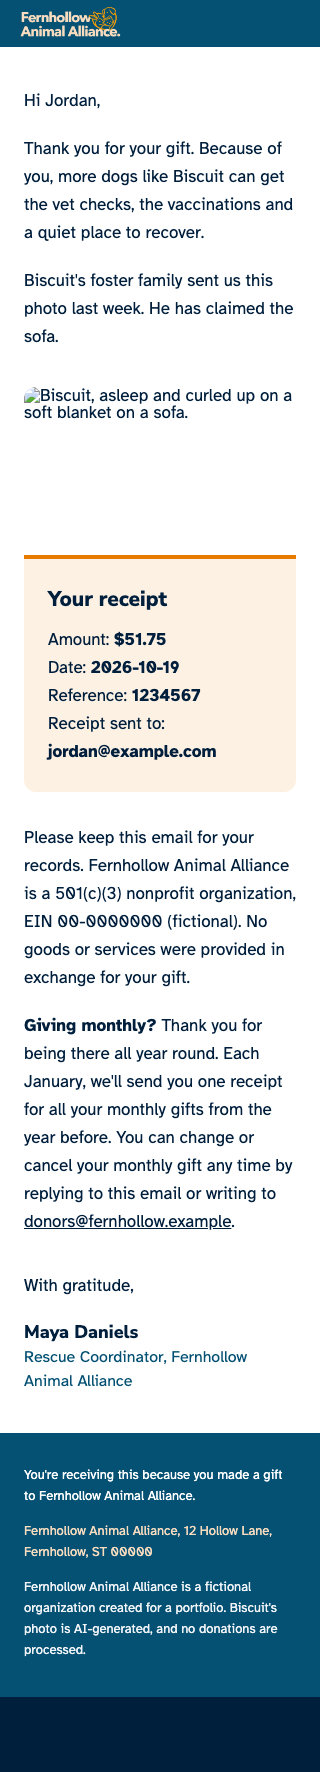
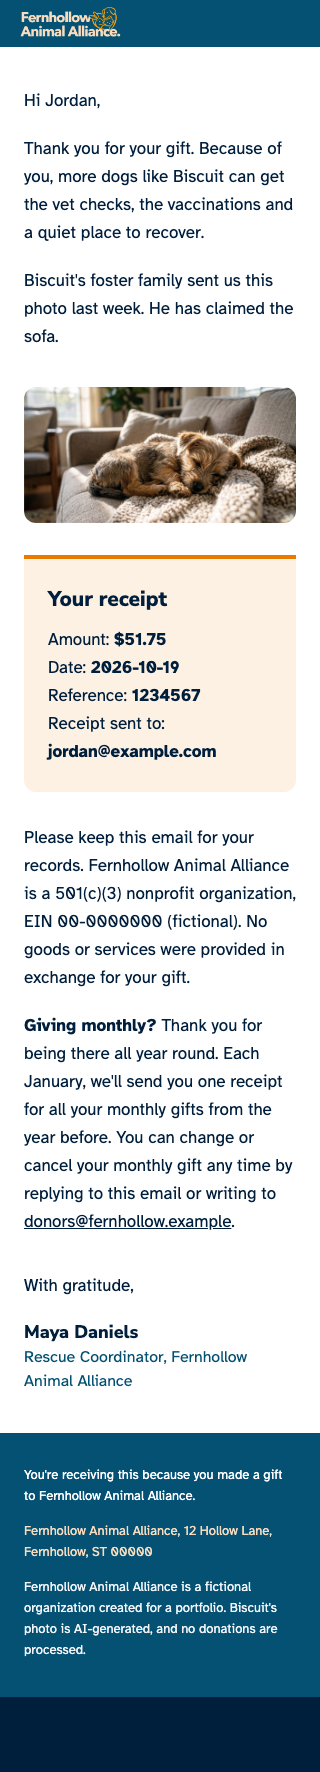
Add receipt test-send screenshots
- 7 screenshots from the Gmail iPhone app (light, dark, images off)
  and Outlook.com
- Retook the receipt's browser screenshots now the sofa photo is live
- index.html links to them in the receipt section

Changed region(s): [[0.0625, 0.2173, 0.9375, 0.3104]]

diff --git a/index.html b/index.html
@@ -428,6 +428,23 @@
               <a class="chip" href="screenshots/browser-receipt-images-off.png">images turned off</a>
             </div>
           </div>
+
+          <h3>Test sends in real inboxes</h3>
+          <div class="inboxes">
+            <div class="inbox">
+              <strong>Gmail</strong>
+              <a href="screenshots/inbox-receipt-gmail-app-light-bottom.png">phone app</a>
+              <a href="screenshots/inbox-receipt-gmail-app-dark-bottom.png">phone app in dark mode</a>
+            </div>
+            <div class="inbox">
+              <strong>Outlook.com</strong>
+              <a href="screenshots/inbox-receipt-outlook-web-light.png">light</a>
+            </div>
+            <div class="inbox">
+              <strong>Images turned off</strong>
+              <a href="screenshots/inbox-receipt-gmail-app-images-off.png">Gmail</a>
+            </div>
+          </div>
         </section>
 
         <section class="note-section" aria-labelledby="unsubscribe">
